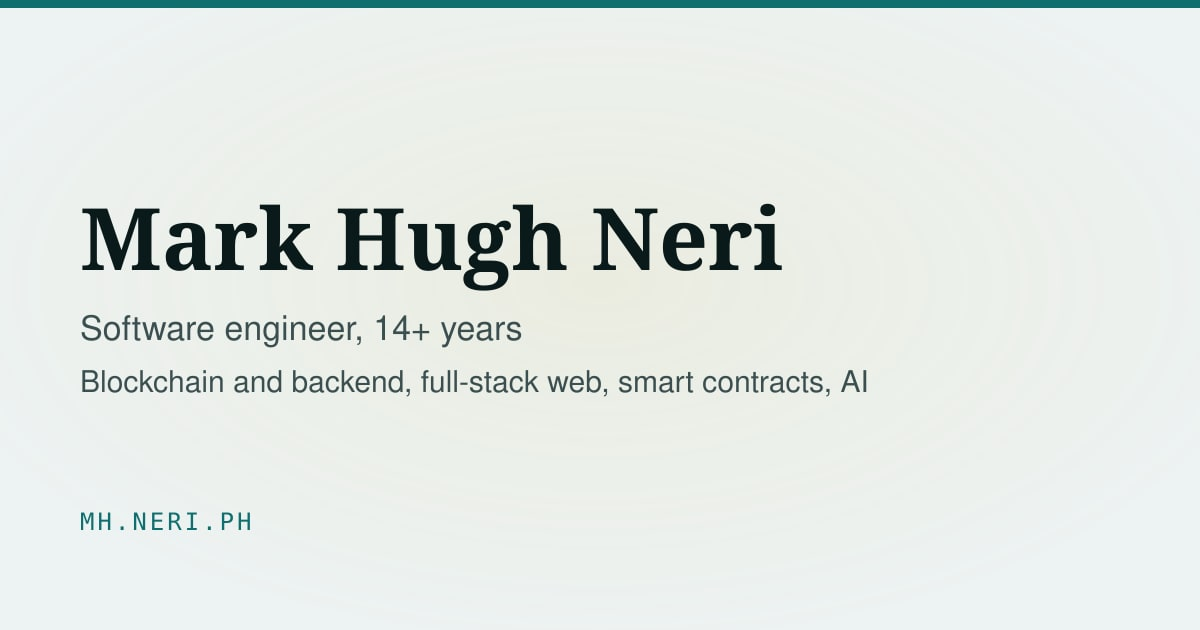
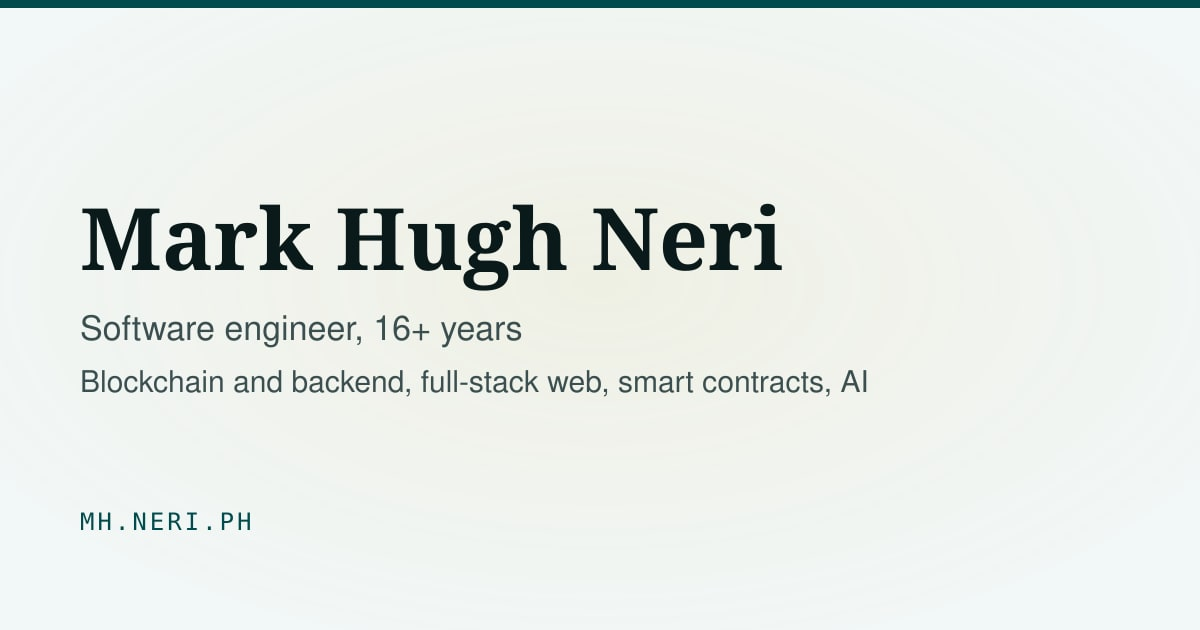
fix: contact form returned 403 to every submission in production
Reported as "contact form is failing". Reproduced in a real browser against
mh.neri.ph: `POST /api/contact` answered **403**, with no server log line at
all — the request was refused before the route ran.

## Cause

Railway terminates TLS at its edge and forwards plain HTTP, so
`req.socket.encrypted` is false and the adapter derives `http://mh.neri.ph` as
the request origin. `x-forwarded-proto: https` is present and says otherwise,
but Astro only honours it when `security.allowedDomains` is non-empty — see
`validateForwardedHeaders` in `astro/dist/core/app/validate-headers.js`. It
defaults to empty, so the header was discarded.

`checkOrigin` then compared the browser's `Origin: https://mh.neri.ph` against
`http://mh.neri.ph` and refused. Astro's check applies only to form-like content
types, which is why this was invisible from every angle I had tested it from:

- the access gate posts JSON — exempt, and working
- my `curl -d '{...}'` probes posted JSON — exempt, and passing
- the local suite runs over plain HTTP with a matching origin — passing

Both browser paths were broken: `FormData` (multipart) and the no-JS submit
(urlencoded).

`allowedDomains: [{ hostname: "mh.neri.ph", protocol: "https" }]` — one host,
https only. A wildcard here would let a caller spoof the host Astro believes it
is serving.

Verified against a simulated TLS-terminating proxy: a form-encoded POST carrying
`x-forwarded-proto: https` now returns 200, and the same request WITHOUT that
[…]

diff --git a/src/__tests__/proxy-trust.test.ts b/src/__tests__/proxy-trust.test.ts
@@ -1,0 +1,65 @@
+import { describe, expect, it } from "vitest";
+
+/**
+ * The reverse-proxy trust setting, pinned because its absence took the contact
+ * form down in production and nothing else noticed.
+ *
+ * ## What happened
+ *
+ * Railway terminates TLS at its edge and forwards plain HTTP. The adapter
+ * therefore derives `http://mh.neri.ph` as the request origin unless it trusts
+ * `x-forwarded-proto` — and Astro only trusts that header when
+ * `security.allowedDomains` is non-empty (`validateForwardedHeaders` in
+ * `astro/dist/core/app/validate-headers.js`). It defaults to empty.
+ *
+ * `checkOrigin` then compared the browser's `Origin: https://mh.neri.ph`
+ * against `http://mh.neri.ph` and returned **403 to every form submission**,
+ * both the JavaScript path and the no-JS one.
+ *
+ * ## Why this is a config assertion and not an end-to-end one
+ *
+ * The bug only exists behind a TLS-terminating proxy. Locally the server is
+ * plain HTTP and the browser's Origin is `http://localhost:4321`, so the origins
+ * match and every test passes — which is exactly what happened. Reproducing it
+ * in the suite would mean running the app under a second, TLS-terminating proxy
+ * for one assertion.
+ *
+ * So this pins the setting itself. It is a weaker test than a request, and it
+ * is honest about that: it cannot prove the proxy path works, only that the
+ * line whose absence broke it is still there and still scoped.
+ */
+
+const { default: config } = await import("../../astro.config.mjs");
+
+describe("proxy trust (security.allowedDomains)", () => {
+  it("is configured at all", () => {
+    // Empty is Astro's default and is the state that caused the outage.
+    expect(
+      config.security?.allowedDomains ?? [],
+      "x-forwarded-proto is ignored when this is empty",
+    ).not.toHaveLength(0);
+  });
+
+  it("names the production host over https, and nothing wider", () => {
+    const domains = config.security?.allowedDomains ?? [];
+
+    for (const pattern of domains) {
+      expect(pattern.protocol, "http would defeat the point").toBe("https");
+      expect(
+        pattern.hostname,
+        "a wildcard lets a caller spoof the host Astro thinks it serves",
+      ).not.toContain("*");
+    }
+
+    expect(domains.map((d) => d.hostname)).toContain("mh.neri.ph");
+  });
+
+  it("still checks the origin", () => {
+    /**
+     * Trusting the proxy is only safe alongside the check it feeds. Turning
+     * `checkOrigin` off would be the other way to make the 403 disappear, and
+     * the wrong one.
+     */
+    expect(config.security?.checkOrigin).toBe(true);
+  });
+});
